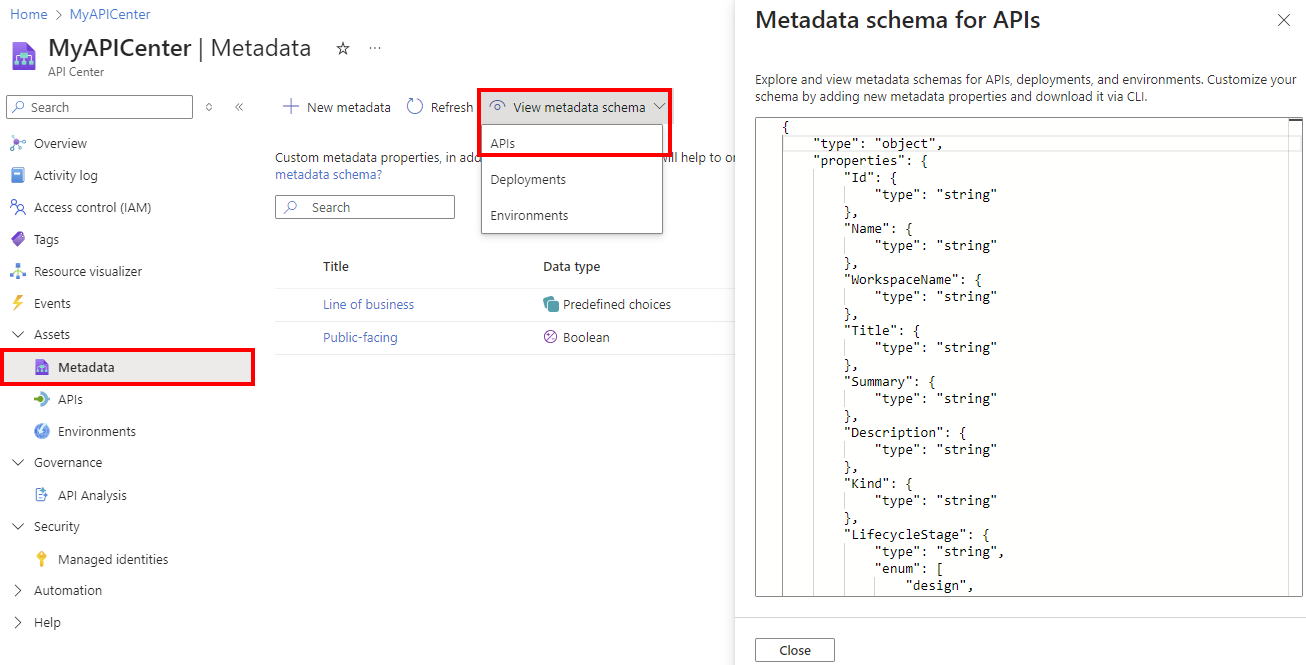
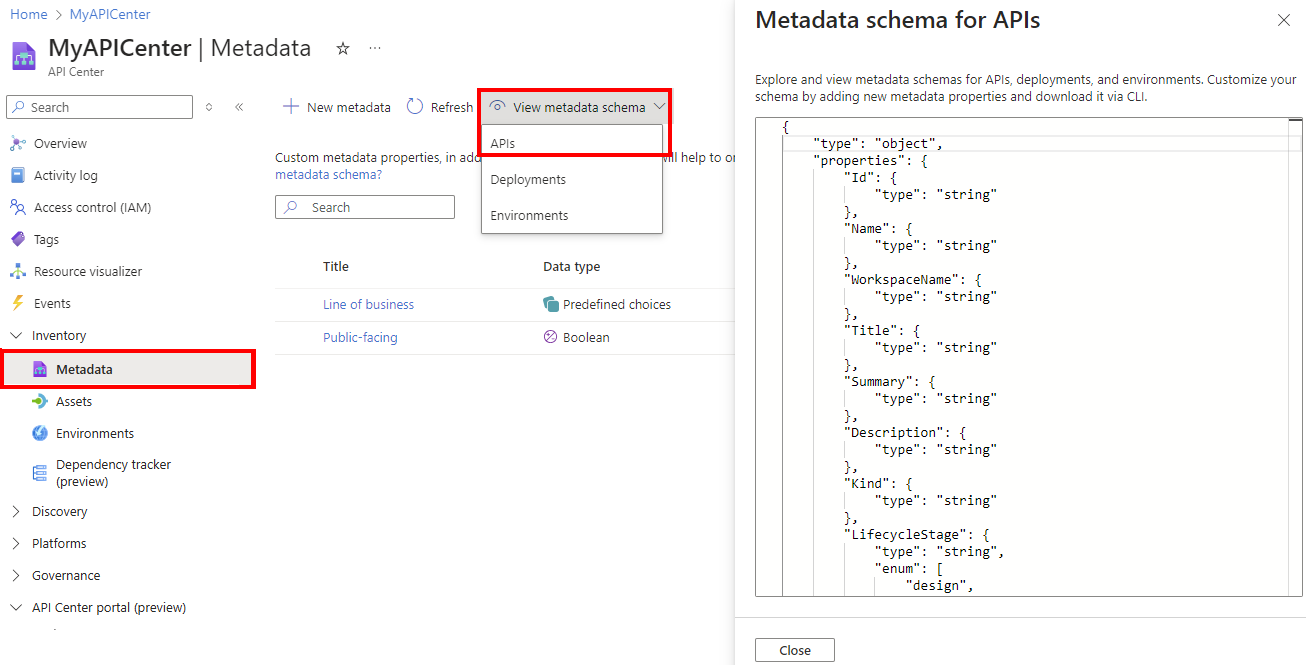
wip

Changed region(s): [[0.0, 0.6917, 0.1531, 0.9624], [0.0, 0.4812, 0.2144, 0.6617]]

diff --git a/articles/api-center/tutorials/register-apis.md b/articles/api-center/tutorials/register-apis.md
@@ -45,7 +45,9 @@ The following steps register two sample APIs: Swagger Petstore API and Conferenc
  
 1. Sign in to the [Azure portal](https://portal.azure.com), then navigate to your API center.
 
-1. In the sidebar menu, under **Inventory**, select **Assets**, then select **Register an asset** and choose **API**.
+1. In the sidebar menu, under **Inventory**, select **Assets**.
+
+1. Select **+ Register an asset** > **API**.
 
     :::image type="content" source="./media/register-apis/register-asset.png" alt-text="Screenshot of the Assets page in the Azure portal with the Register an asset menu showing API, MCP server, and A2A agent options." lightbox="./media/register-apis/register-asset.png":::
 
@@ -55,16 +57,16 @@ The following steps register two sample APIs: Swagger Petstore API and Conferenc
     |-------|-----|-----------|
     |**API title**| Enter *Swagger Petstore API*.| Name you choose for the API  |
     |**Identification**|After you enter the preceding title, Azure API Center generates this identifier, which you can override.| Azure resource name for the API |
-    |**API type**| Select **REST** from the dropdown.| Type of API |
+    |**Asset type**| Select **REST** from the dropdown.| Type of API |
     | **Summary** | Optionally enter a summary. | Summary description of the API  |
     | **Description** | Optionally enter a description. | Description of the API |
     | **Version** | | |
     |**Version title**| Enter a version title of your choice, such as *v1*.|Name you choose for the API version |
     |**Version identification**|After you enter the preceding title, Azure API Center generates this identifier, which you can override.| Azure resource name for the version |
     |**Version lifecycle**  | Make a selection from the dropdown, for example, **Testing** or **Production**. | Lifecycle stage of the API version |
-    |**External documentation**     | Optionally add one or more links to external documentation.       | Name, description, and URL of documentation for the API     |
-    |**License**         |  Optionally add license information.       | Name, URL, and ID of a license for the API     |
-    |**Contact information**         |  Optionally add information for one or more contacts.       | Name, email, and URL of a contact for the API     |
+    |**License**         |  Optionally, add license information.       | Name, URL, and ID of a license for the API     |    
+    |**External documentation**     | Optionally, add one or more links to external documentation.       | Name, description, and URL of documentation for the API     |
+    |**Contact information**         |  Optionally. add information for one or more contacts.       | Name, email, and URL of a contact for the API     |
     | **Line of business** | If you added this metadata in the previous tutorial, make a selection from the dropdown, such as **Marketing**. | Custom metadata that identifies the business unit that owns the API  |
     | **Public-facing**  | If you added this metadata, select the checkbox.    |  Custom metadata that identifies whether the API is public-facing or internal only    |
 
@@ -77,11 +79,9 @@ The following steps register two sample APIs: Swagger Petstore API and Conferenc
 
 The APIs appear on the **Assets** page in the portal. If you add a large number of APIs to the API center, use the search box and filters on this page to find the APIs you want.
 
-<!-- :::image type="content" source="./media/register-apis/apis-page.png" alt-text="Screenshot of the APIs page in the portal." lightbox="./media/register-apis/apis-page.png"::: -->
+:::image type="content" source="./media/register-apis/apis-page.png" alt-text="Screenshot of the Assets page in the portal." lightbox="./media/register-apis/apis-page.png":::
 
 After registering an API, you can view or edit the API's properties. On the **Assets** page, select the API to see pages to manage the API registration. 
-
-<a id="add-a-definition-to-your-version"></a>
 
 ## Add an API version
 
@@ -105,18 +105,20 @@ Here you add a version to one of your APIs:
     |**Version identification**|After you enter the preceding title, Azure API Center generates this identifier, which you can override.| Azure resource name for the version |
     |**Version lifecycle**  | Make a selection from the dropdown, such as **Production**. | Lifecycle stage of the API version |
 
-1. Azure API Center supports definitions in common text specification formats, such as OpenAPI 2 and 3 for REST APIs. To add an API definition, enter or select the following information under **Select a specification**:
+1.  under **Select a specification**, add an API definition, enter or select the following information. Azure API Center supports definitions in common text specification formats, such as OpenAPI 2 and 3 for REST APIs.
 
     |Setting|Value|Description|
     |-------|-----|-----------|
     |**Definition title**| Enter a title of your choice, such as *v2 Definition*.|Name you choose for the API definition|
     |**Definition identification**|After you enter the preceding title, Azure API Center generates this identifier, which you can override.| Azure resource name for the definition|
-    |**Description** | Optionally enter a description. | Description of the API definition |
+    |**Description** | Optionally, enter a description. | Description of the API definition |
     |**Specification format** | For the Petstore API, select **OpenAPI**. | Specification format for the API|
     |**Specification version** | Enter a version identifier of your choice, such as *3.0*. | Specification version |
     |**File** or **URL**   | Browse to a local definition file for the Petstore API, or enter a URL. Example URL: `https://raw.githubusercontent.com/swagger-api/swagger-petstore/refs/heads/master/src/main/resources/openapi.yaml`   |  API definition file   |
 
     :::image type="content" source="./media/register-apis/add-definition.png" alt-text="Screenshot of adding an API definition in the portal." lightbox="./media/register-apis/add-definition.png" :::
+
+1. Leave the setting under **Add a deployment** unselected for now. You configure a deployment in the next tutorial, [Add environments and deployments for APIs](./configure-environments-deployments.md).
 
 1. Select **Create**.
 

diff --git a/articles/api-center/tutorials/add-metadata-properties.md b/articles/api-center/tutorials/add-metadata-properties.md
@@ -4,14 +4,14 @@ description: Define custom metadata in your API center. Use custom and built-in 
 
 ms.service: azure-api-center
 ms.topic: tutorial
-ms.date: 10/20/2025
+ms.date: 02/24/2026
  
 #customer intent: As the owner of an Azure API center, I want a step by step introduction to configure custom metadata properties to govern my APIs.
 ---
 
 # Tutorial: Define custom metadata
 
-This tutorial explains how to define custom metadata to help you organize your APIs and other information in your API center. You can use custom and built-in metadata for search and filtering and to enforce governance standards in your organization. 
+This tutorial explains how to define custom metadata to help you organize your APIs and other assets in your API center. You can use custom and built-in metadata for search and filtering and to enforce governance standards in your organization. 
 
 For more information about metadata in Azure API Center, see:
 
@@ -29,15 +29,15 @@ In this tutorial, you learn how to use the Azure portal to:
 
 ## Define metadata
 
-Here you define two custom metadata examples: *Line of business* and *Public-facing*; if you prefer, define other metadata of your own. When you add or update APIs and other information in your inventory, set values for custom and any common built-in metadata.
+Here you define two custom metadata examples: *Line of business* and *Public-facing*; if you prefer, define other metadata of your own. When you add or update APIs and other assets in your inventory, set values for custom and any common built-in metadata.
 
 [!INCLUDE [metadata-sensitive-data](../includes/metadata-sensitive-data.md)]
 
 1. Sign in to the [Azure portal](https://portal.azure.com), then navigate to your API center.
 
-1. In the sidebar menu, under **Assets**, select **Metadata** > **+ New metadata**. 
+1. In the sidebar menu, under **Inventory**, select **Metadata** > **+ New metadata**. 
 
-1. On the **Details** tab, enter information about the metadata. 
+1. On the **Create new metadata** page, enter information about the metadata. 
 
     1. For **Title**, enter *Line of business*. 
 
@@ -73,7 +73,7 @@ Here you define two custom metadata examples: *Line of business* and *Public-fac
 
 You can view and download the JSON schema for the metadata defined in your API center. The schema includes built-in and custom metadata.
 
-1. In the left menu, under **Assets**, select **Metadata** > **View metadata schema**. 
+1. In the sidebar menu, under **Inventory**, select **Metadata** > **View metadata schema**. 
 
 1. Select **View metadata schema** > **APIs** to see the metadata schema for APIs, which includes built-in and custom metadata. You can also view the metadata schema defined for deployments and environments in your API center.
 

diff --git a/articles/api-center/register-manage-agents.md b/articles/api-center/register-manage-agents.md
@@ -5,7 +5,7 @@ description: "Learn how to update agent metadata, add skills, configure capabili
 
 ms.service: azure-api-center
 ms.topic: how-to
-ms.date: 02/12/2026
+ms.date: 02/24/2026
 ms.update-cycle: 180-days
 ms.collection: ce-skilling-ai-copilot
 ---
@@ -22,14 +22,16 @@ This article shows you how to register A2A agents in API Center, and how to upda
 
 ## Register agent
 
-Enter required values from the agent's agent card. Optionally add skills and other metadata that define the capabilities and actions your A2A agent can perform.
+Enter required values from the agent's agent card. Optionally, add skills and other metadata that define the capabilities and actions your A2A agent can perform.
 
 > [!TIP]
 > For detailed skill schema information, see the [Agent2Agent (A2A) Protocol Official Specification](https://a2a-protocol.org/latest/specification/).
 
-1. Sign in to the [Azure portal](https://portal.azure.com), then navigate to your API center.
+1. Sign in to the [Azure portal](https://portal.azure.com), then go to your API center.
 
-1. In the sidebar menu, under **Inventory**, select **Assets**, then select **Register an asset** and choose **A2A agent**.
+1. In the sidebar menu, under **Inventory**, select **Assets**.
+
+1. Select **+ Register an asset** > **A2A agent**.
 
 1. In the **Register an API** page, fill in the [standard properties](tutorials/register-apis.md) to register an API and choose **A2A** as the agent type.
 
@@ -118,10 +120,6 @@ Agent capabilities describe what features your A2A agent supports.
     |State Transition History | Indicates if the agent provides a history of state transitions for a task              |
 
 1. Select **Save**.
-
-## Limitations
-
-Agent-to-Agent APIs in API Management don't synchronize with API Center.
 
 ## Related content
 

diff --git a/articles/api-center/agent-to-agent-overview.md b/articles/api-center/agent-to-agent-overview.md
@@ -5,7 +5,7 @@ description: "Overview of the agent registry for discovering, registering, and m
 
 ms.service: azure-api-center
 ms.topic: overview
-ms.date: 11/03/2025
+ms.date: 02/24/2026
 ms.update-cycle: 180-days
 ms.collection: ce-skilling-ai-copilot
 
